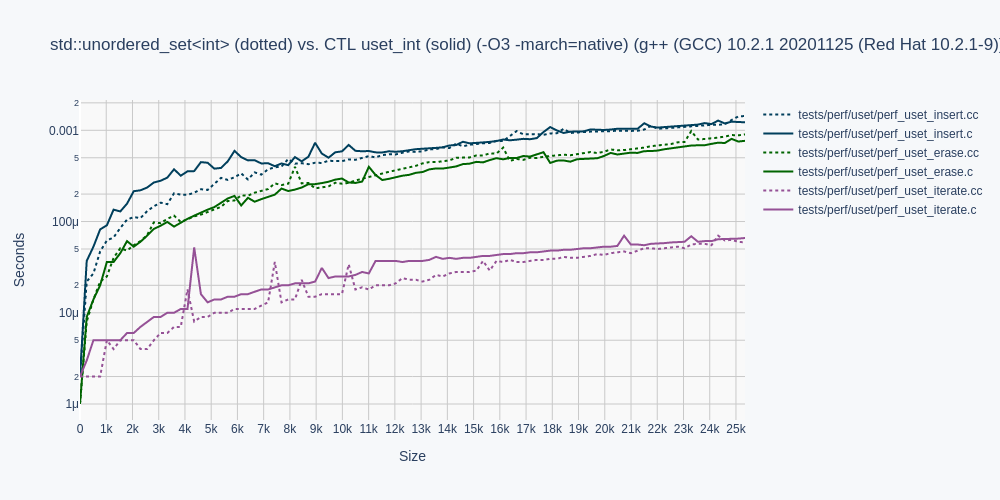
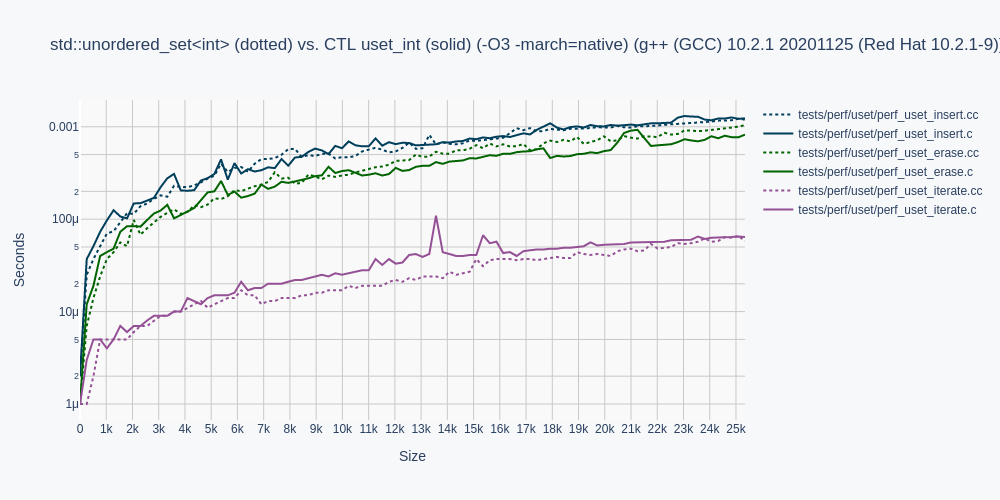
uset: skip empty rehash
and add the bucket_count API, as in the STL

Changed region(s): [[0.031, 0.21, 0.744, 0.81]]

diff --git a/tests/func/test_unordered_set.cc b/tests/func/test_unordered_set.cc
@@ -98,8 +98,8 @@ static const char *test_names[] = {
             }                                                                                                          \
             assert(a_found == b_found);                                                                                \
             /* only if we use the very same policies                                                                   \
-            assert(_x.bucket_count == _y.bucket_count());                                                              \
-            for(size_t _i = 0; _i < _x.bucket_count; _i++)                                                             \
+            assert(_x.bucket_max + 1 == _y.bucket_count());                                                              \
+            for(size_t _i = 0; _i <= _x.bucket_max; _i++)                                                             \
                 assert(uset_digi_bucket_size(&_x, _i) == _y.bucket_size(_i));                                          \
             */                                                                                                         \
         }                                                                                                              \
@@ -183,7 +183,7 @@ int main(void)
             queue_int_pop(&tests);
         } else
             which = (test >= 0 ? test : TEST_RAND(TEST_TOTAL));
-        LOG("TEST=%d %s (%zu, %zu)\n", which, test_names[which], a.size, a.bucket_count);
+        LOG("TEST=%d %s (%zu, %zu)\n", which, test_names[which], a.size, a.bucket_max);
         switch (which)
         {
         case TEST_SELF: {
@@ -278,7 +278,7 @@ int main(void)
         }
         case TEST_REHASH: {
             size_t size = uset_digi_size(&a);
-            LOG("size %lu -> %lu, cap: %lu\n", size, size * 2, a.bucket_count);
+            LOG("size %lu -> %lu, cap: %lu\n", size, size * 2, a.bucket_max + 1);
             print_uset(&a);
             print_unordered_set(b);
             b.rehash(size * 2);
@@ -303,7 +303,7 @@ int main(void)
                 LOG("copy\n");
                 print_uset(&aa);
                 uset_digi_reserve(&aa, reserve);
-                LOG("CTL reserve by %" PRId32 " %zu\n", reserve, aa.bucket_count);
+                LOG("CTL reserve by %" PRId32 " %zu\n", reserve, aa.bucket_max + 1);
                 print_uset(&aa);
                 CHECK(aa, bb);
                 uset_digi_free(&aa);

diff --git a/ctl/unordered_set.h b/ctl/unordered_set.h
@@ -136,6 +136,11 @@ typedef struct I
 
 #include <ctl/bits/iterators.h>
 
+static inline size_t JOIN(A, bucket_count)(A *self)
+{
+    return self->buckets ? self->bucket_max + 1 : 0;
+}
+
 static inline size_t JOIN(I, index)(A *self, T value)
 {
 #ifdef CTL_USET_GROWTH_POWER2
@@ -637,16 +642,19 @@ static inline void JOIN(A, rehash)(A *self, size_t desired_count)
         return;
     A rehashed = JOIN(A, init)(self->hash, self->equal);
     JOIN(A, reserve)(&rehashed, desired_count);
-    B **b_last = &self->buckets[self->bucket_max];
-    for (B **b = self->buckets; b <= b_last; b++)
+    if (LIKELY(self->buckets && self->size)) // if desired_count 0
     {
-        B* node = *b;
-        while (node)
+        B **b_last = &self->buckets[self->bucket_max];
+        for (B **b = self->buckets; b <= b_last; b++)
         {
-            B* next = node->next;
-            B **buckets = JOIN(A, _cached_bucket)(&rehashed, node);
-            JOIN(B, push)(buckets, node);
-            node = next;
+            B* node = *b;
+            while (node)
+            {
+                B* next = node->next;
+                B **buckets = JOIN(A, _cached_bucket)(&rehashed, node);
+                JOIN(B, push)(buckets, node);
+                node = next;
+            }
         }
     }
     rehashed.size = self->size;
@@ -667,16 +675,19 @@ static inline void JOIN(A, _rehash)(A *self, size_t count)
     LOG("_rehash %zu => %zu\n", self->size, count);
     JOIN(A, _reserve)(&rehashed, count);
 
-    B **b_last = &self->buckets[self->bucket_max];
-    for (B **b = self->buckets; b <= b_last; b++)
+    if (LIKELY(self->buckets && self->size)) // if desired_count 0
     {
-        B* node = *b;
-        while (node)
+        B **b_last = &self->buckets[self->bucket_max];
+        for (B **b = self->buckets; b <= b_last; b++)
         {
-            B* next = node->next;
-            B **buckets = JOIN(A, _cached_bucket)(&rehashed, node);
-            JOIN(B, push)(buckets, node);
-            node = next;
+            B* node = *b;
+            while (node)
+            {
+                B* next = node->next;
+                B **buckets = JOIN(A, _cached_bucket)(&rehashed, node);
+                JOIN(B, push)(buckets, node);
+                node = next;
+            }
         }
     }
     rehashed.size = self->size;

diff --git a/README.md b/README.md
@@ -342,6 +342,7 @@ partially [libmowgli](https://github.com/atheme/libmowgli-2),
 |`load_factor`                    | -  | -  | -  | -  | -  | -  | -  | ✓  | ✓  | -  | -  | -  |
 |`max_load_factor`                | -  | -  | -  | -  | -  | -  | -  | ✓  | ✓  | -  | -  | -  |
 |`max_bucket_count`               | -  | -  | -  | -  | -  | -  | -  | ✓  | ✓  | -  | -  | -  |
+|`bucket_count`                   | -  | -  | -  | -  | -  | -  | -  | ✓  | ✓  | -  | -  | -  |
 |`bucket_size`                    | -  | -  | -  | -  | -  | -  | -  | ✓  | ✓  | -  | -  | -  |
 |`rehash`                         | -  | -  | -  | -  | -  | -  | -  | ✓  | ✓  | -  | -  | -  |
 |`emplace`                        | x  |    | -  | ✓  | ✓  | x  | -  | ✓  | x  | ✓  | -  | -  |
@@ -561,7 +562,7 @@ Use the original long names, not three-letter abbrevations.
 Our version number `CTL_VERSION` is greater than 202000 (starting with `202102`),
 the old ctl is lower than 202000, starting with `1.0`.
 
-Added lots of missing methods. We have 145 methods in 755 stable variants.
+Added lots of missing methods. We have 146 methods in 757 stable variants.
 glouw has 63 methods in 196 stable variants.
 
 Probe for -std=c++20 c++ support and use this for testing against the STL.

diff --git a/docs/index.md b/docs/index.md
@@ -343,6 +343,7 @@ partially [libmowgli](https://github.com/atheme/libmowgli-2),
 |`load_factor`                    | -  | -  | -  | -  | -  | -  | -  | ✓  | ✓  | -  | -  | -  |
 |`max_load_factor`                | -  | -  | -  | -  | -  | -  | -  | ✓  | ✓  | -  | -  | -  |
 |`max_bucket_count`               | -  | -  | -  | -  | -  | -  | -  | ✓  | ✓  | -  | -  | -  |
+|`bucket_count`                   | -  | -  | -  | -  | -  | -  | -  | ✓  | ✓  | -  | -  | -  |
 |`bucket_size`                    | -  | -  | -  | -  | -  | -  | -  | ✓  | ✓  | -  | -  | -  |
 |`rehash`                         | -  | -  | -  | -  | -  | -  | -  | ✓  | ✓  | -  | -  | -  |
 |`emplace`                        | x  |    | -  | ✓  | ✓  | x  | -  | ✓  | x  | ✓  | -  | -  |
@@ -563,7 +564,7 @@ Use the original long names, not three-letter abbrevations.
 Our version number `CTL_VERSION` is greater than 202000 (starting with `202102`),
 the old ctl is lower than 202000, starting with `1.0`.
 
-Added lots of missing methods. We have 145 methods in 755 stable variants.
+Added lots of missing methods. We have 146 methods in 757 stable variants.
 glouw has 63 methods in 196 stable variants.
 
 Probe for -std=c++20 c++ support and use this for testing against the STL.
